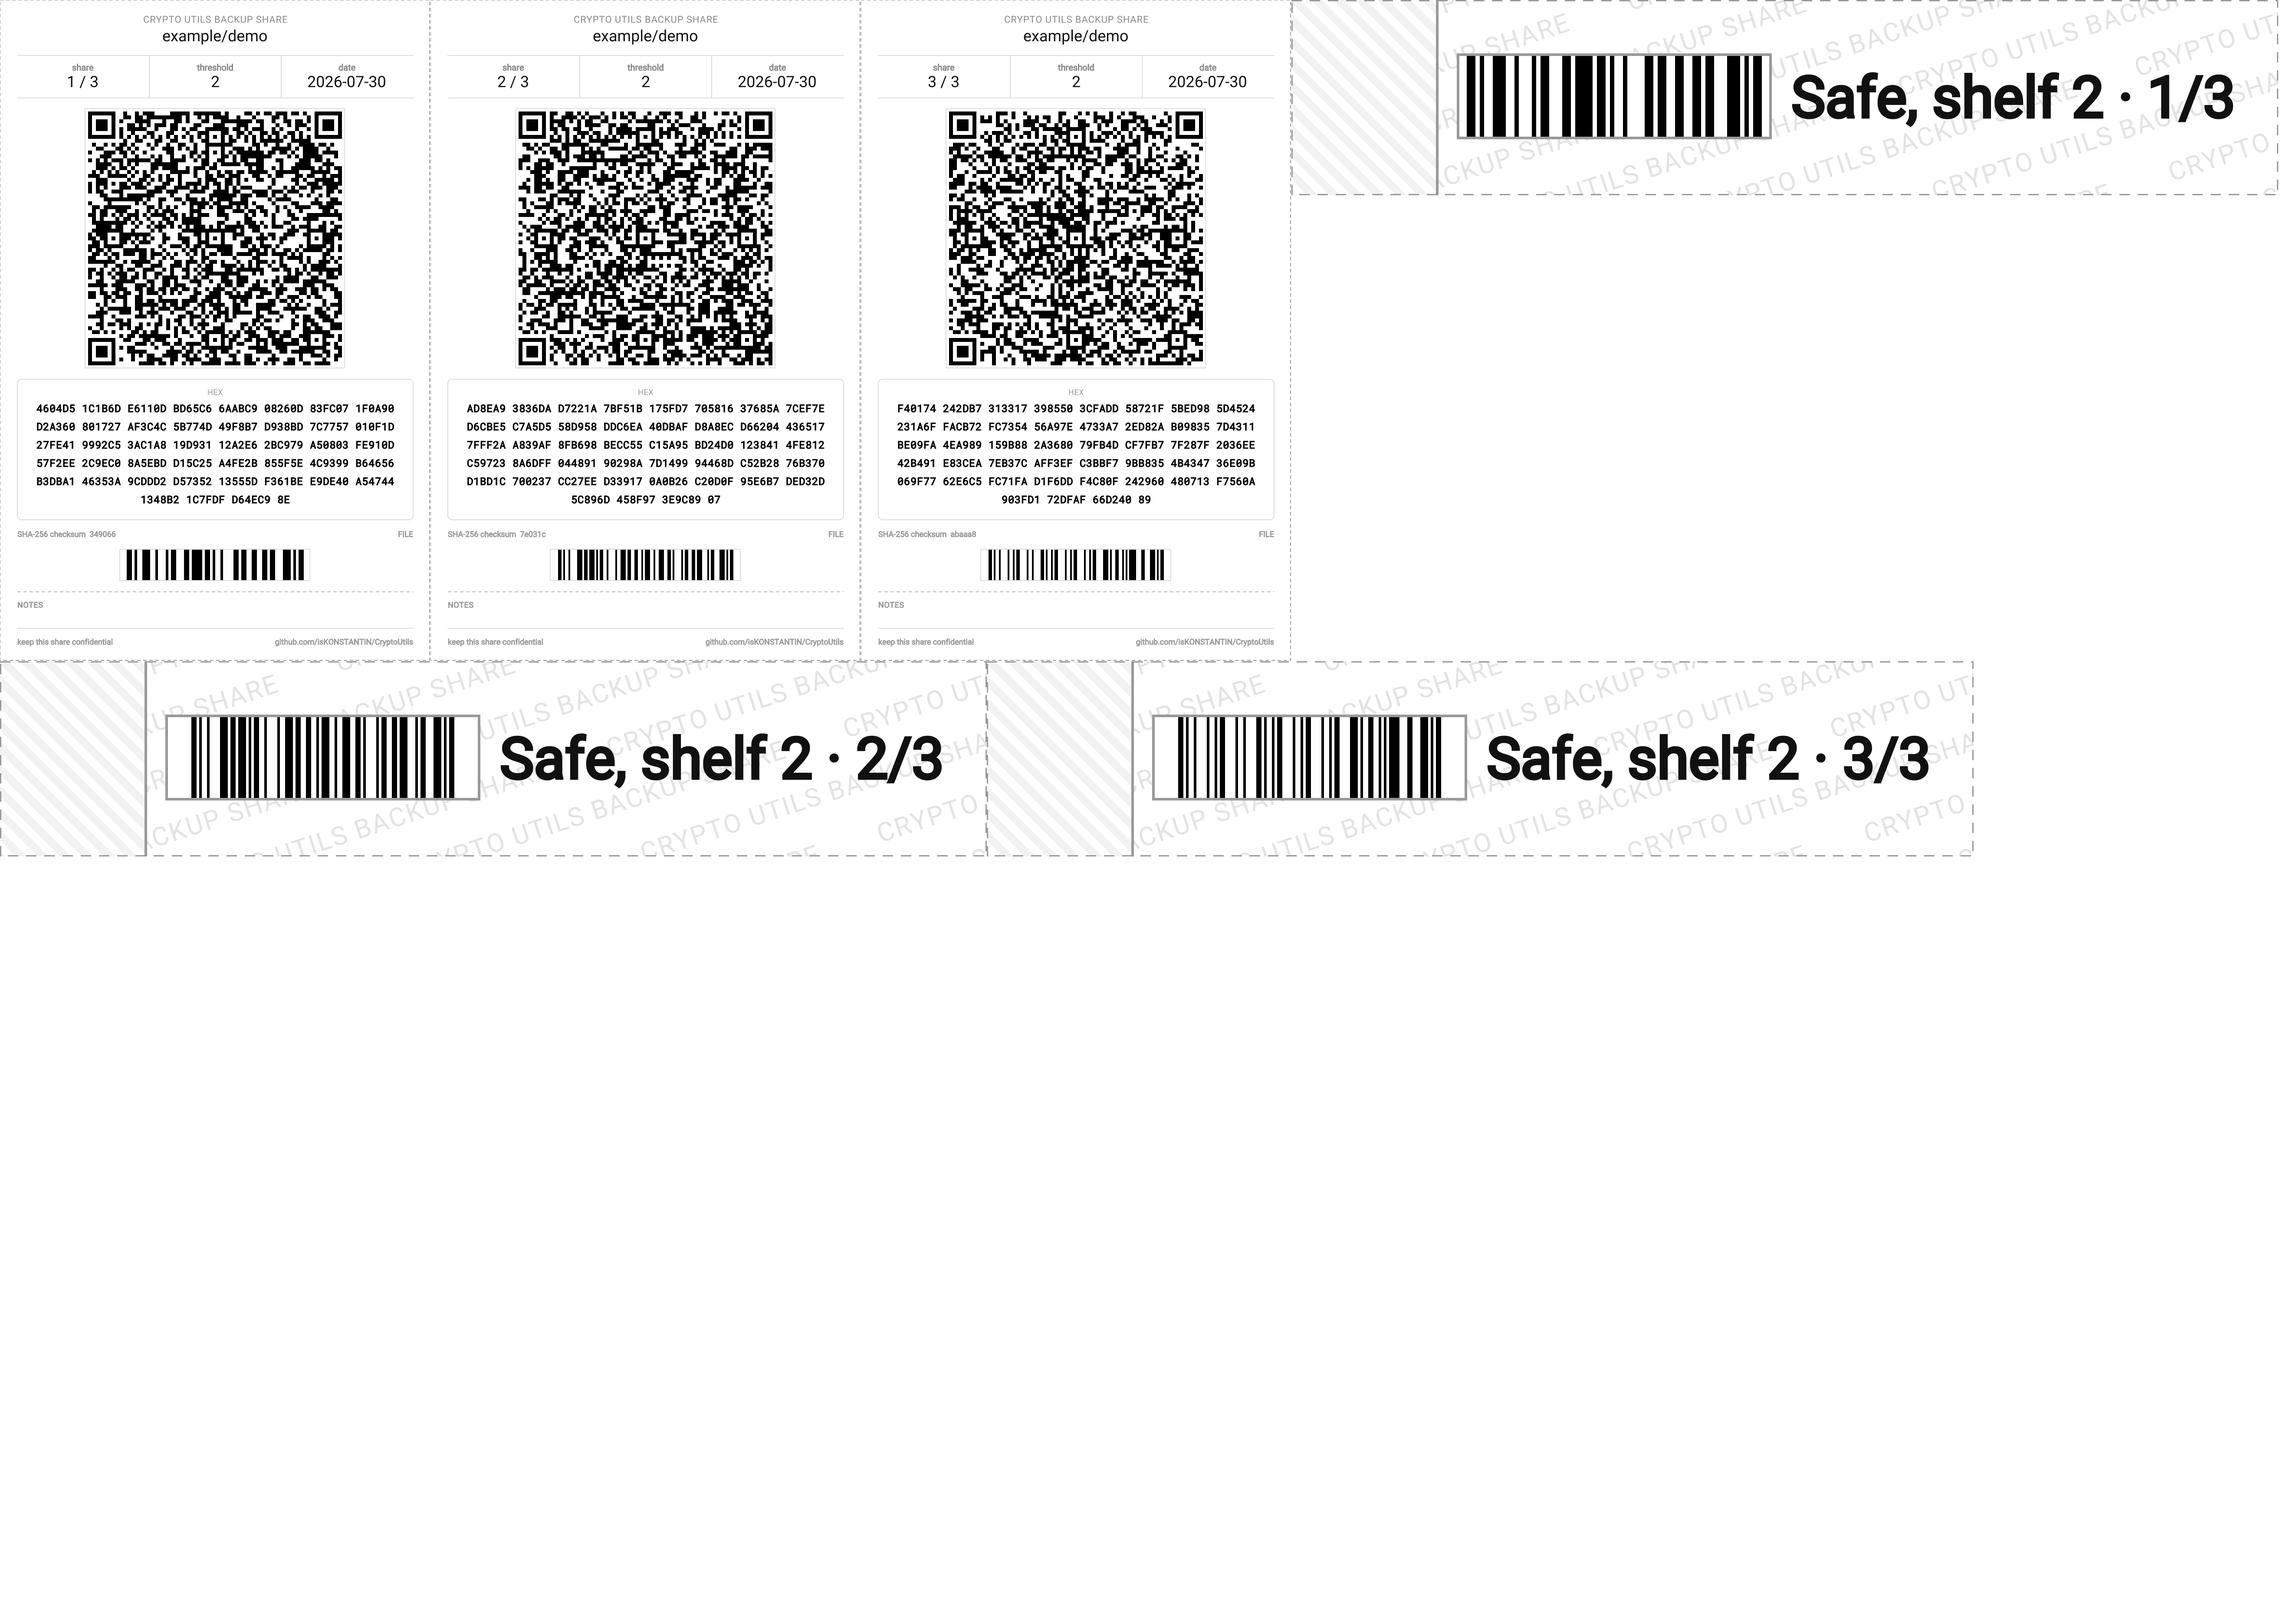
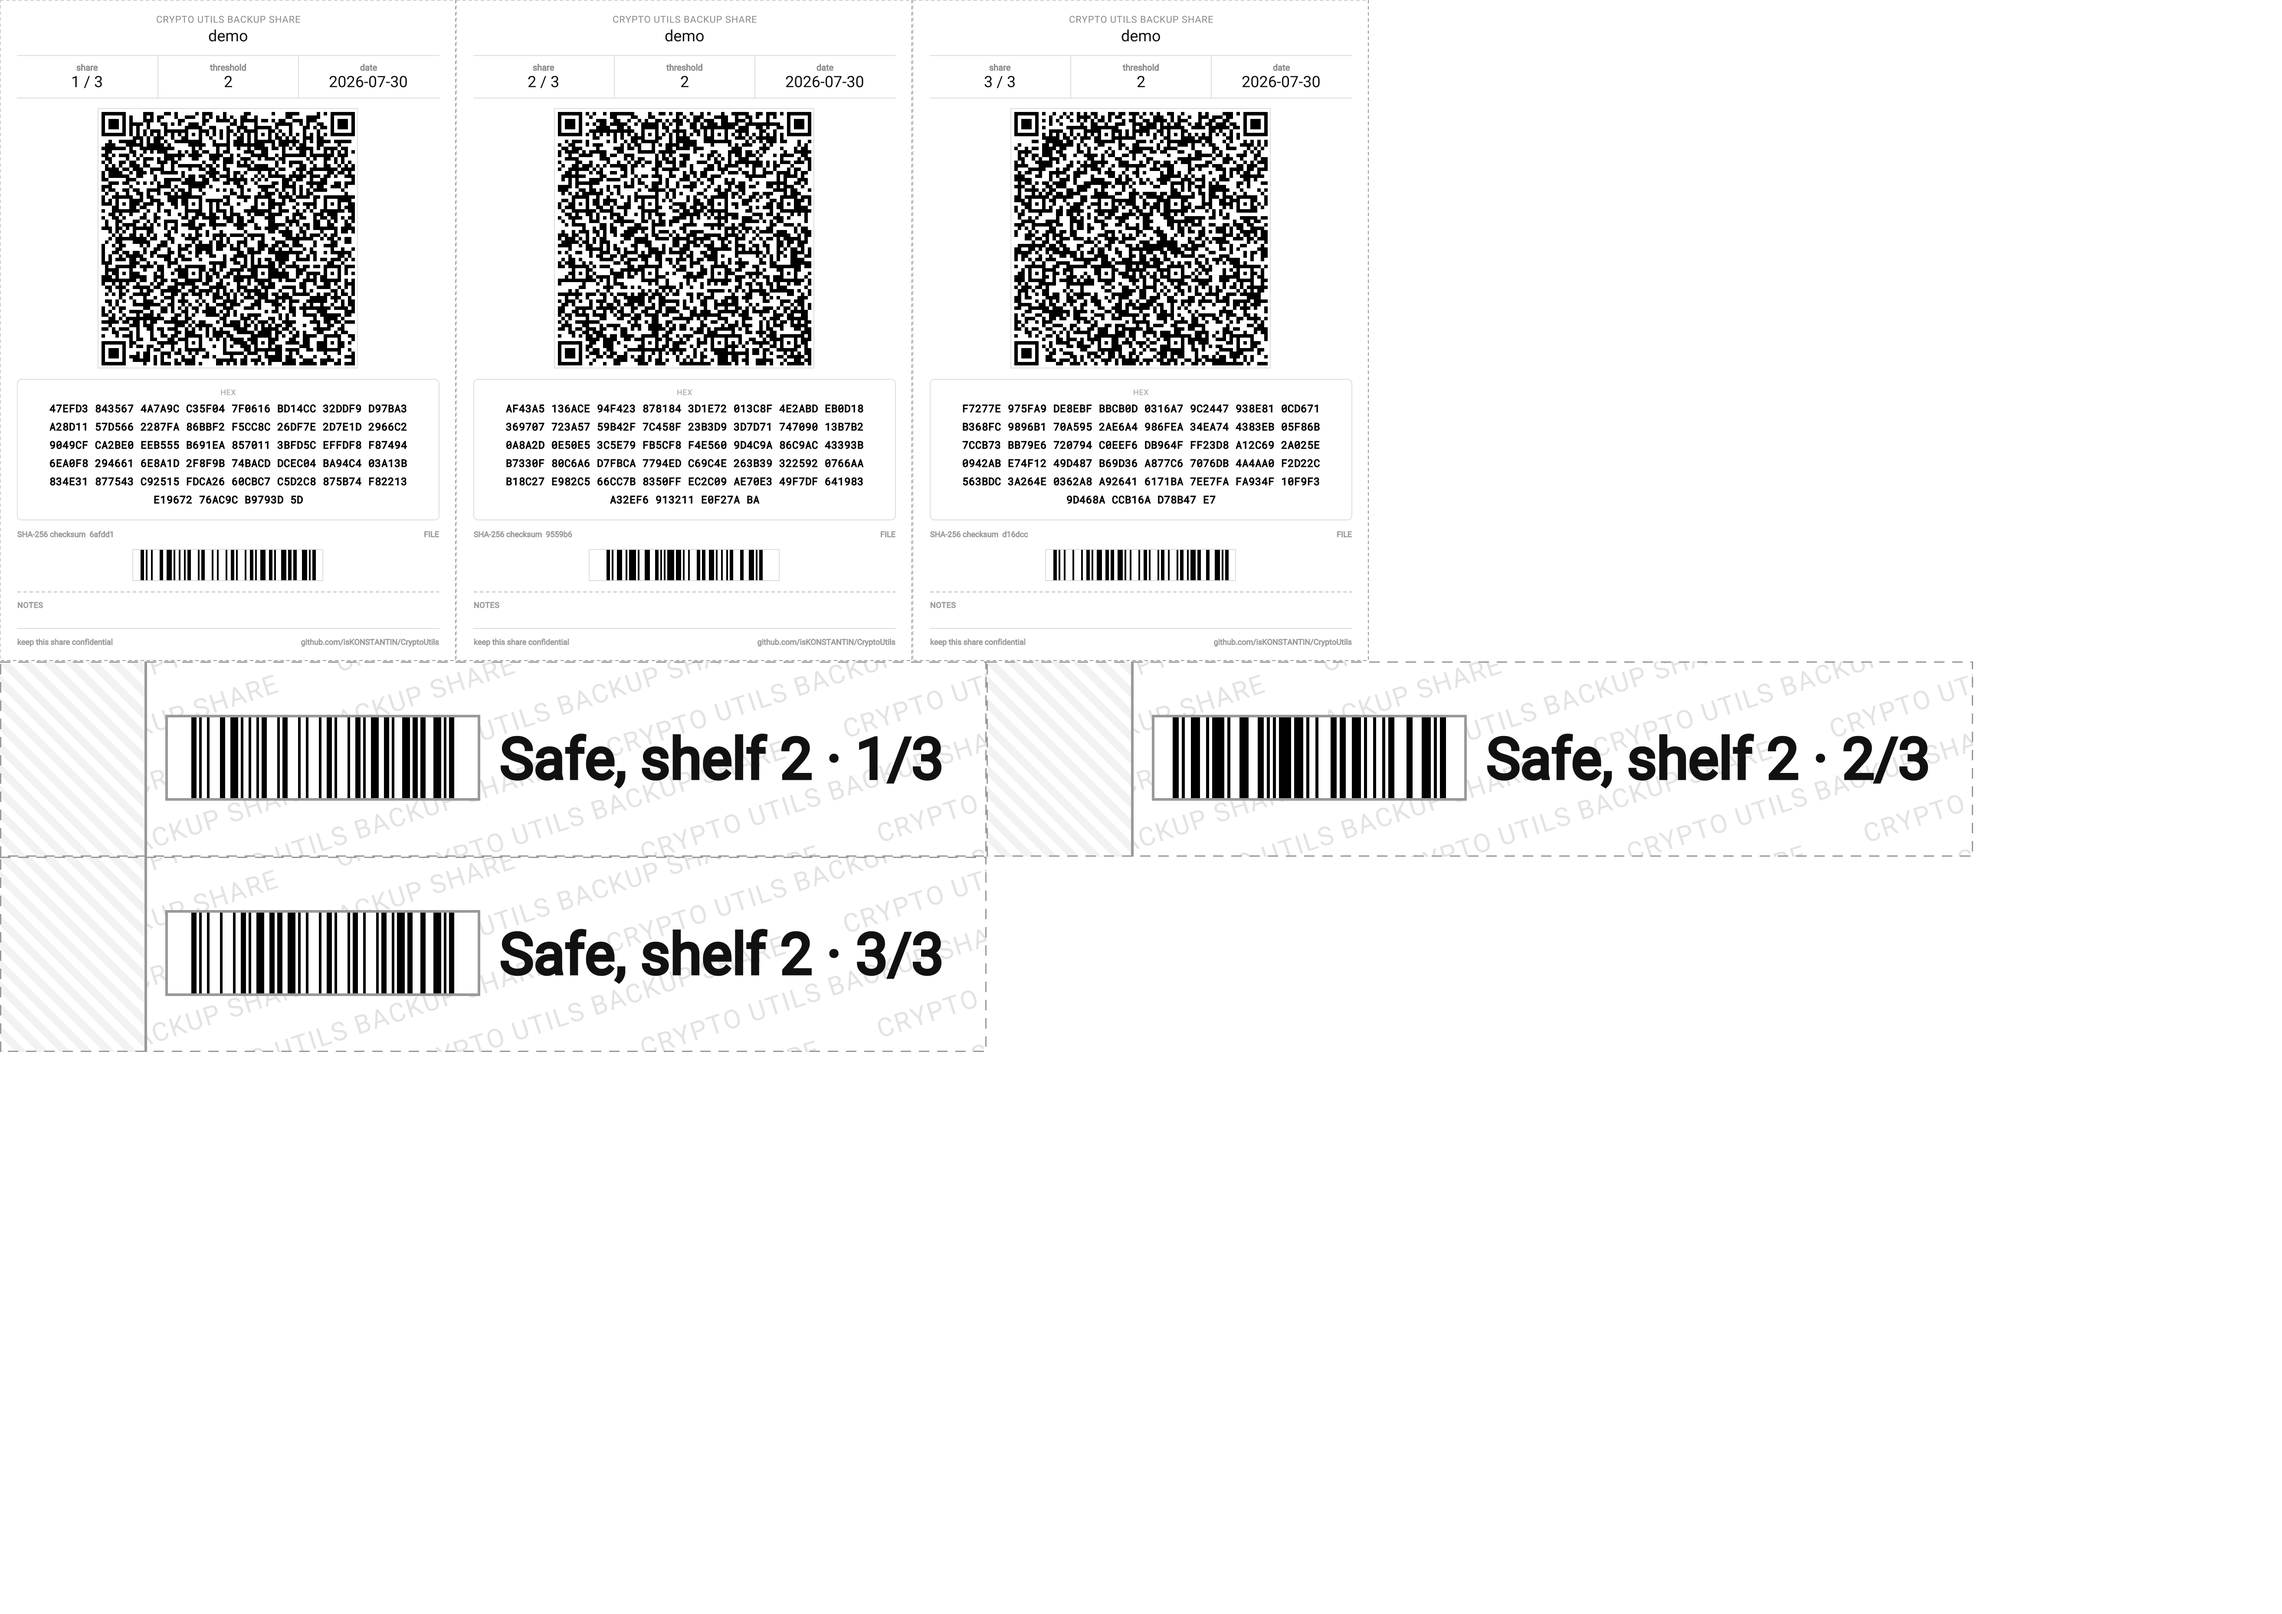
Little bigger cards output and remove smoke test from ci

diff --git a/src/main/java/su/knst/crypto/core/render/CardImage.java b/src/main/java/su/knst/crypto/core/render/CardImage.java
@@ -23,12 +23,13 @@ import java.util.Map;
  * share/threshold/date metadata row, a QR code, a formatted hex dump of the share bytes, a
  * checksum row, a blank notes line and a footer, all inside a dashed cut/fold border.
  *
- * The card is 496 logical px wide, which {@link PrintGeometry} prints as 56mm - narrow enough that
- * three fit across an A4 sheet, wide enough that the 9pt hex fallback stays readable by eye. Height
- * is not fixed: it grows with the number of wrapped hex lines, which depends on share size.
+ * The card prints {@link PrintGeometry#CARD_WIDTH_MM}mm wide - one fifth of a landscape A4, so five
+ * cards fit across a sheet with nothing left over - which at the print density works out to 526
+ * logical px. Height is not fixed: it grows with the number of wrapped hex lines, which depends on
+ * share size.
  */
 public final class CardImage {
-    // The whole card is laid out in "logical" pixels (design px @ 300 DPI, see class doc), then
+    // The whole card is laid out in "logical" pixels (half a print pixel each, see class doc), then
     // rendered into a canvas RENDER_SCALE times larger and scaled up via the Graphics2D transform.
     // Vector content (text, lines, fills) simply gets rasterized with more samples this way, which
     // is what makes the small label/hex text noticeably crisper; only the QR bitmap needs special
@@ -36,7 +37,7 @@ public final class CardImage {
     // scaled transform would blur its hard edges instead of sharpening them.
     static final int RENDER_SCALE = 2;
 
-    static final int CARD_WIDTH = 496;
+    static final int CARD_WIDTH = PrintGeometry.mmToPx(PrintGeometry.CARD_WIDTH_MM) / RENDER_SCALE;
     private static final int PADDING_TOP = 16;
     private static final int PADDING_SIDE = 20;
     private static final int PADDING_BOTTOM = 18;

diff --git a/src/test/java/su/knst/crypto/tests/integration/backup/SharePrintLayoutPlannerTest.java b/src/test/java/su/knst/crypto/tests/integration/backup/SharePrintLayoutPlannerTest.java
@@ -208,17 +208,18 @@ class SharePrintLayoutPlannerTest {
 
     @Test
     void realA4ConfigDerivedFromActualCardPixelWidth() throws ImageTooLargeException {
-        int cardWidth = 992; // real rendered card width (496 nominal design px * 2x supersample)
+        int cardWidth = 1052; // real rendered card width (526 nominal design px * 2x supersample)
         PageConfig a4 = PageConfig.a4FittingCardWidth(cardWidth);
 
-        // page size is derived from the card's rendered width treated as 56mm (not its true 42mm
-        // design width, see PageConfig.a4FittingCardWidth), so a row fits 210/56 = 3.75 card widths
-        // and a column fits 297/56 ~= 5.30 card widths.
-        assertEquals(3720, a4.portraitWidthPx());
-        assertEquals(5261, a4.landscapeWidthPx());
+        // page size is derived from the card's rendered width treated as 59.4mm (see
+        // PageConfig.a4FittingCardWidth), so a row fits 210/59.4 ~= 3.54 card widths and a column
+        // fits exactly 297/59.4 = 5 of them.
+        assertEquals(3719, a4.portraitWidthPx());
+        assertEquals(5260, a4.landscapeWidthPx());
+        assertEquals(5 * cardWidth, a4.landscapeWidthPx());
 
         List<PrintPage> plan = PrintLayoutPlanner.plan(
-                List.of(image(992, 1200), image(992, 1200)), a4);
+                List.of(image(1052, 1200), image(1052, 1200)), a4);
 
         assertEquals(1, plan.size());
         assertEquals(Orientation.LANDSCAPE, plan.get(0).orientation());

diff --git a/src/main/java/su/knst/crypto/core/render/PrintGeometry.java b/src/main/java/su/knst/crypto/core/render/PrintGeometry.java
@@ -9,8 +9,16 @@ package su.knst.crypto.core.render;
  * standalone and ~25mm tall on a sheet.
  */
 public final class PrintGeometry {
-    /** A card is {@value CardImage#CARD_WIDTH} logical px wide, supersampled, and prints 56mm wide. */
-    public static final double PX_PER_MM = (double) (CardImage.CARD_WIDTH * CardImage.RENDER_SCALE) / 56.0;
+    /**
+     * A card prints exactly one fifth of a landscape A4's 297mm width, so five of them sit across a
+     * sheet edge to edge. {@link CardImage} derives its pixel width from this, not the other way
+     * round: the density below has to stay fixed, or every other artifact sized in raw pixels (the
+     * tag's 25.4mm height above all) would silently change physical size along with the card.
+     */
+    public static final double CARD_WIDTH_MM = 297.0 / 5.0;
+
+    /** 450 DPI - the density every printable artifact is rasterized and tagged with. */
+    public static final double PX_PER_MM = 450.0 / 25.4;
 
     public static final int PIXELS_PER_METER = (int) Math.round(PX_PER_MM * 1000);
 

diff --git a/src/main/java/su/knst/crypto/core/render/PrintLayoutPlanner.java b/src/main/java/su/knst/crypto/core/render/PrintLayoutPlanner.java
@@ -44,10 +44,10 @@ public final class PrintLayoutPlanner {
     public record PageConfig(int portraitWidthPx, int portraitHeightPx) {
         // Anchoring the page to a card's own already-rendered pixel width keeps card pixels and
         // page pixels in the same scale whatever supersampling the renderers use, so the layout
-        // never has to know a DPI. A card is 56mm wide (see PrintGeometry, which writes that same
-        // density into every PNG), which makes these dimensions a true A4 sheet.
+        // never has to know a DPI. A card is PrintGeometry.CARD_WIDTH_MM wide (and PrintGeometry
+        // writes that same density into every PNG), which makes these dimensions a true A4 sheet.
         public static PageConfig a4FittingCardWidth(int cardWidthPx) {
-            double pxPerMm = cardWidthPx / 56.0;
+            double pxPerMm = cardWidthPx / PrintGeometry.CARD_WIDTH_MM;
 
             return new PageConfig(
                     (int) Math.round(210 * pxPerMm),

diff --git a/src/test/java/su/knst/crypto/tests/core/render/PrintGeometryTest.java b/src/test/java/su/knst/crypto/tests/core/render/PrintGeometryTest.java
@@ -9,7 +9,7 @@ class PrintGeometryTest {
 
     @Test
     void millimetresAndPixelsAreInverses() {
-        assertEquals(56.0, PrintGeometry.pxToMm(PrintGeometry.mmToPx(56.0)), 0.05);
+        assertEquals(59.4, PrintGeometry.pxToMm(PrintGeometry.mmToPx(59.4)), 0.05);
         assertEquals(25.4, PrintGeometry.pxToMm(PrintGeometry.mmToPx(25.4)), 0.05);
         assertEquals(210.0, PrintGeometry.pxToMm(PrintGeometry.mmToPx(210.0)), 0.05);
     }
@@ -20,9 +20,10 @@ class PrintGeometryTest {
     }
 
     @Test
-    void aCardIs56mmWide() {
-        // 496 logical px at the card's 2x supersampling
-        assertEquals(56.0, PrintGeometry.pxToMm(992), 0.05);
+    void aCardIsOneFifthOfALandscapeA4Wide() {
+        // 526 logical px at the card's 2x supersampling
+        assertEquals(59.4, PrintGeometry.pxToMm(1052), 0.05);
+        assertEquals(297.0 / 5.0, PrintGeometry.CARD_WIDTH_MM, 0.001);
     }
 
     @Test

diff --git a/src/test/java/su/knst/crypto/tests/integration/backup/ShareCardImageTest.java b/src/test/java/su/knst/crypto/tests/integration/backup/ShareCardImageTest.java
@@ -157,12 +157,12 @@ class ShareCardImageTest {
         assertThrows(WriterException.class, () -> CardImage.build(data(hugeHex.toString())));
     }
 
-    // 496 logical px (42mm @ 300 DPI) rendered at a 2x supersample for sharper text/QR edges.
+    // 526 logical px (59.4mm - one fifth of a landscape A4) at a 2x supersample for sharper edges.
     @Test
-    void cardWidthIsExactly496LogicalPixels() throws WriterException {
+    void cardWidthIsExactly526LogicalPixels() throws WriterException {
         BufferedImage image = CardImage.build(data("AABBCCDD"));
 
-        assertEquals(496 * 2, image.getWidth());
+        assertEquals(526 * 2, image.getWidth());
     }
 
     @Test

diff --git a/src/test/java/su/knst/crypto/tests/integration/backup/SharePrintLayoutPlannerCombinatorialTest.java b/src/test/java/su/knst/crypto/tests/integration/backup/SharePrintLayoutPlannerCombinatorialTest.java
@@ -32,8 +32,8 @@ import static org.junit.jupiter.api.Assertions.*;
  */
 class SharePrintLayoutPlannerCombinatorialTest {
 
-    // Real rendered card width (496 nominal design px * 2x supersample - see CardImage).
-    private static final int CARD_WIDTH_PX = 992;
+    // Real rendered card width (526 nominal design px * 2x supersample - see CardImage).
+    private static final int CARD_WIDTH_PX = 1052;
     private static final PageConfig PAGE_CONFIG = PageConfig.a4FittingCardWidth(CARD_WIDTH_PX);
 
     enum Category {

diff --git a/src/test/java/su/knst/crypto/tests/core/render/PngWriterTest.java b/src/test/java/su/knst/crypto/tests/core/render/PngWriterTest.java
@@ -84,10 +84,10 @@ class PngWriterTest {
     }
 
     @Test
-    void aCardPrints56mmWide() throws Exception {
+    void aCardPrintsOneFifthOfALandscapeA4Wide() throws Exception {
         BufferedImage card = card();
 
-        assertEquals(56.0, PrintGeometry.pxToMm(card.getWidth()), 0.1);
+        assertEquals(59.4, PrintGeometry.pxToMm(card.getWidth()), 0.1);
     }
 
     @Test

diff --git a/README.md b/README.md
@@ -46,7 +46,7 @@ Path to file? secret.txt
 
 Backup created: 3 parts, 2 required to recover
 Type: FILE
-QR error correction level: Quartile (3/4)
+QR error correction level: High (4/4)
 demo_1.png
 demo_2.png
 demo_3.png
@@ -60,7 +60,7 @@ Print sheets:
 demo_print_1.png
 ```
 
-Each share becomes a card carrying a QR code of the share, its hex dump for when no scanner is at hand, and a SHA-256 checksum with a CODE128 barcode so a card can be identified without decoding it. Cards print 56 mm wide; the tags that go on the containers print 25.4 mm tall and as wide as their name needs. All of it is also tiled onto A4 sheets at the same scale, ready to print at 100% and cut.
+Each share becomes a card carrying a QR code of the share, its hex dump for when no scanner is at hand, and a SHA-256 checksum with a CODE128 barcode so a card can be identified without decoding it. Cards print 59.4 mm wide — one fifth of a landscape A4, so five sit across a sheet edge to edge; the tags that go on the containers print 25.4 mm tall and as wide as their name needs. All of it is also tiled onto A4 sheets at the same scale, ready to print at 100% and cut.
 
 <p align="center">
   <img src="example/demo_1.png" alt="A CryptoUtils backup share card, showing a QR code, hex dump and checksum barcode" width="380">
@@ -197,7 +197,7 @@ Requires a JVM 17+ (any platform).
 ./gradlew check   # tests plus the coverage gate on su.knst.crypto.core
 ```
 
-Tests run classes on a JVM classpath, which says nothing about the binary that actually ships. `tools/smoke_test.sh` drives a built CryptoUtils through a full backup and restore by feeding its prompts on stdin, and CI runs it against both the jar and each native binary:
+Tests run classes on a JVM classpath, which says nothing about the binary that actually ships. `tools/smoke_test.sh` drives a built CryptoUtils through a full backup and restore by feeding its prompts on stdin. It is a local check — run it by hand against a jar or a native binary:
 
 ```
 tools/smoke_test.sh build/native/nativeCompile/cryptoutils

diff --git a/CONTRIBUTING.md b/CONTRIBUTING.md
@@ -33,7 +33,7 @@ or reproducibly via Docker — see the [Installation](README.md#native-binary) s
 1. Fork the repo and create a branch off `main`.
 2. Keep the change focused — unrelated formatting/refactoring in the same PR makes it harder to review.
 3. Add or update tests for any behavior change (`src/test/java`). Anything in `su.knst.crypto.core` is covered to a threshold enforced by `./gradlew check`, so new logic there needs tests to land.
-4. Run `./gradlew build` locally before opening the PR — and `tools/smoke_test.sh <binary>` if you touched the REPL, prompts or anything the native image needs at runtime — CI runs the same `test`/`build`/`build-native` jobs and will block on failures.
+4. Run `./gradlew build` locally before opening the PR — and `tools/smoke_test.sh <binary>` if you touched the REPL, prompts or anything the native image needs at runtime, since CI does not run it — CI runs the same `test`/`build`/`build-native` jobs and will block on failures.
 5. Open a PR against `main` describing what changed and why.
 
 ## Where code goes
